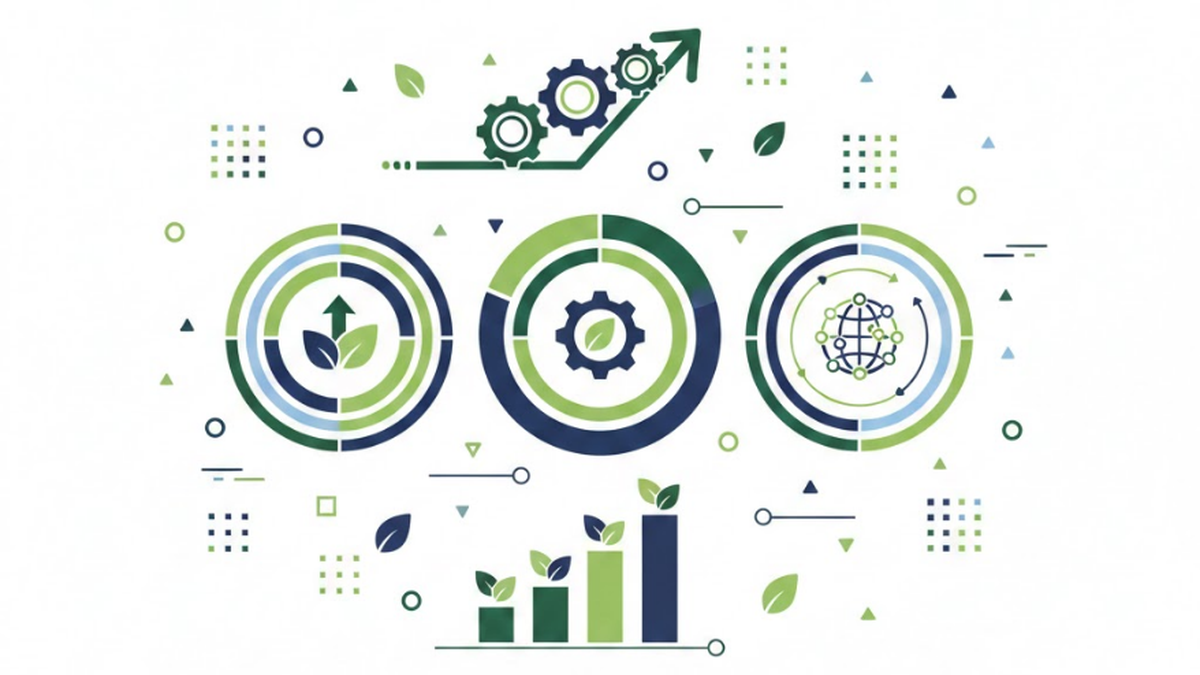
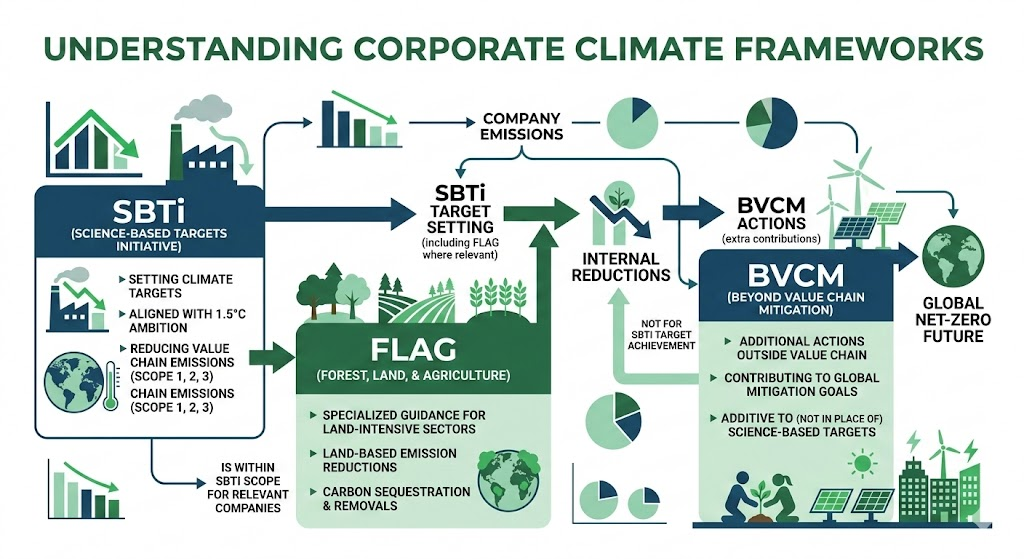
Add EP046: SBTi 最新標準：FLAG 與 Beyond Value Chain

diff --git a/_episodes/EP046.md b/_episodes/EP046.md
@@ -10,27 +10,27 @@ series_name: 法規遵循與國際準則
 slides:
 - image: slide1.png
   points:
-  - 森林土地指引
-  - 農業排放減少
-  - 企業實踐案例
-  title: SBTi FLAG
+  - ' FLAG指引'
+  - BVCM定位
+  - 碳抵換立場
+  title: SBTi最新發展
 - image: slide2.png
   points:
-  - 供應鏈減排
-  - 價值鏈外減排
-  - 企業風險管理
-  title: Beyond Value Chain
+  - 森林保護
+  - 土地利用
+  - 農業發展
+  title: ' FLAG指引'
 - image: slide3.png
   points:
-  - SBTi 立場調整
-  - 企業抵換實踐
-  - 減排目標達成
-  title: 碳抵換爭議
+  - 供應鏈減排
+  - 合作伙伴參與
+  - 風險管理
+  title: Beyond Value Chain
 - image: slide4.png
   points:
   - 簡化流程
-  - 減排工具
-  - 案例分享
+  - 成本節約
+  - 專業諮詢
   title: 中小企業路徑
 title: SBTi 最新標準：FLAG 與 Beyond Value Chain
 video_overview: video_overview.mp4
